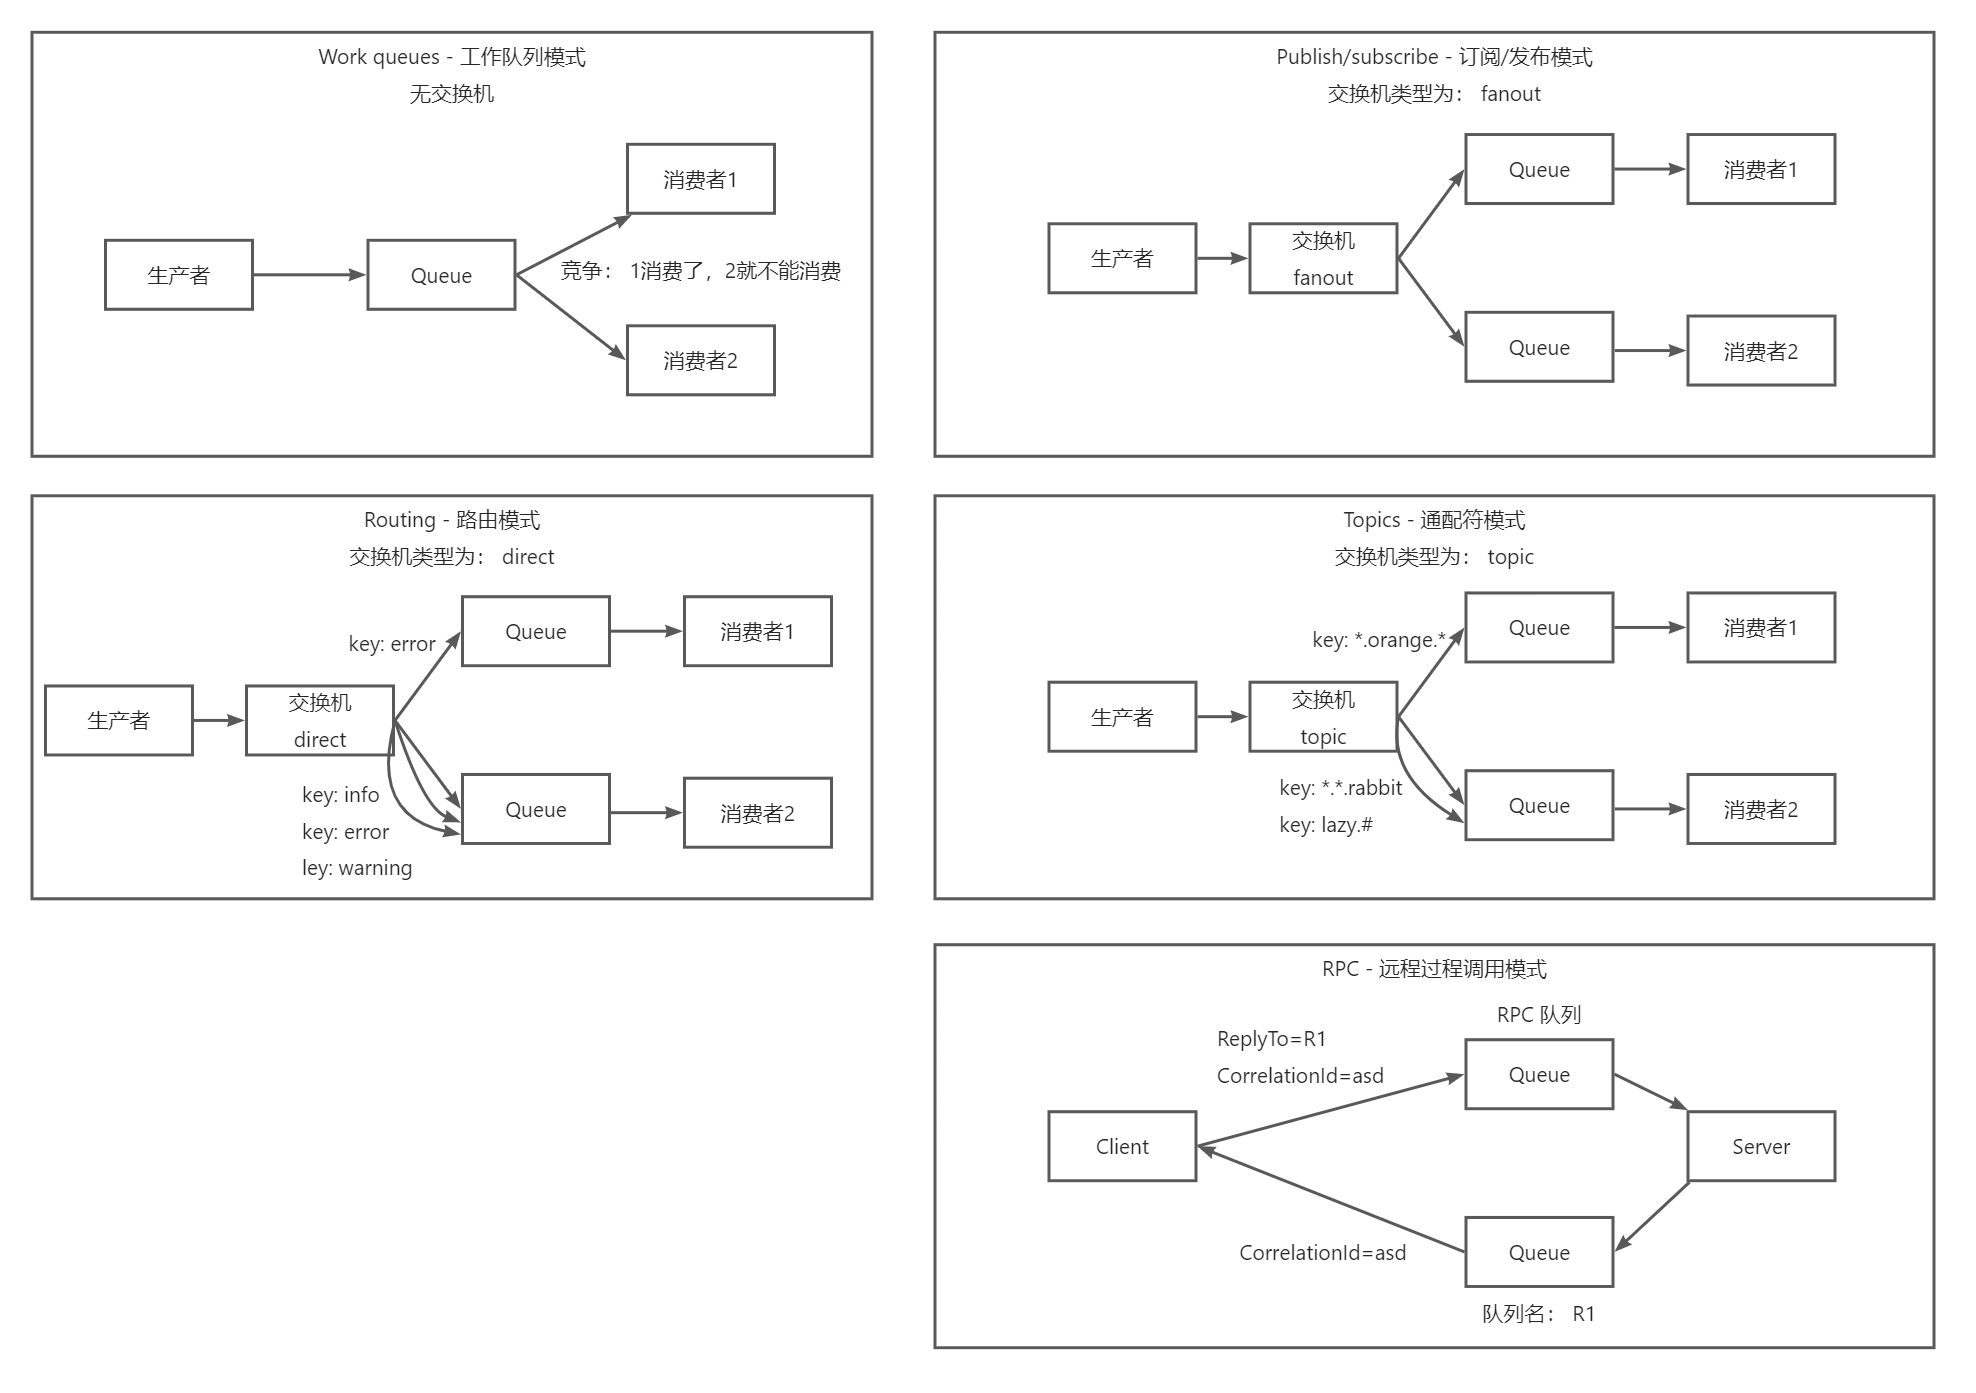
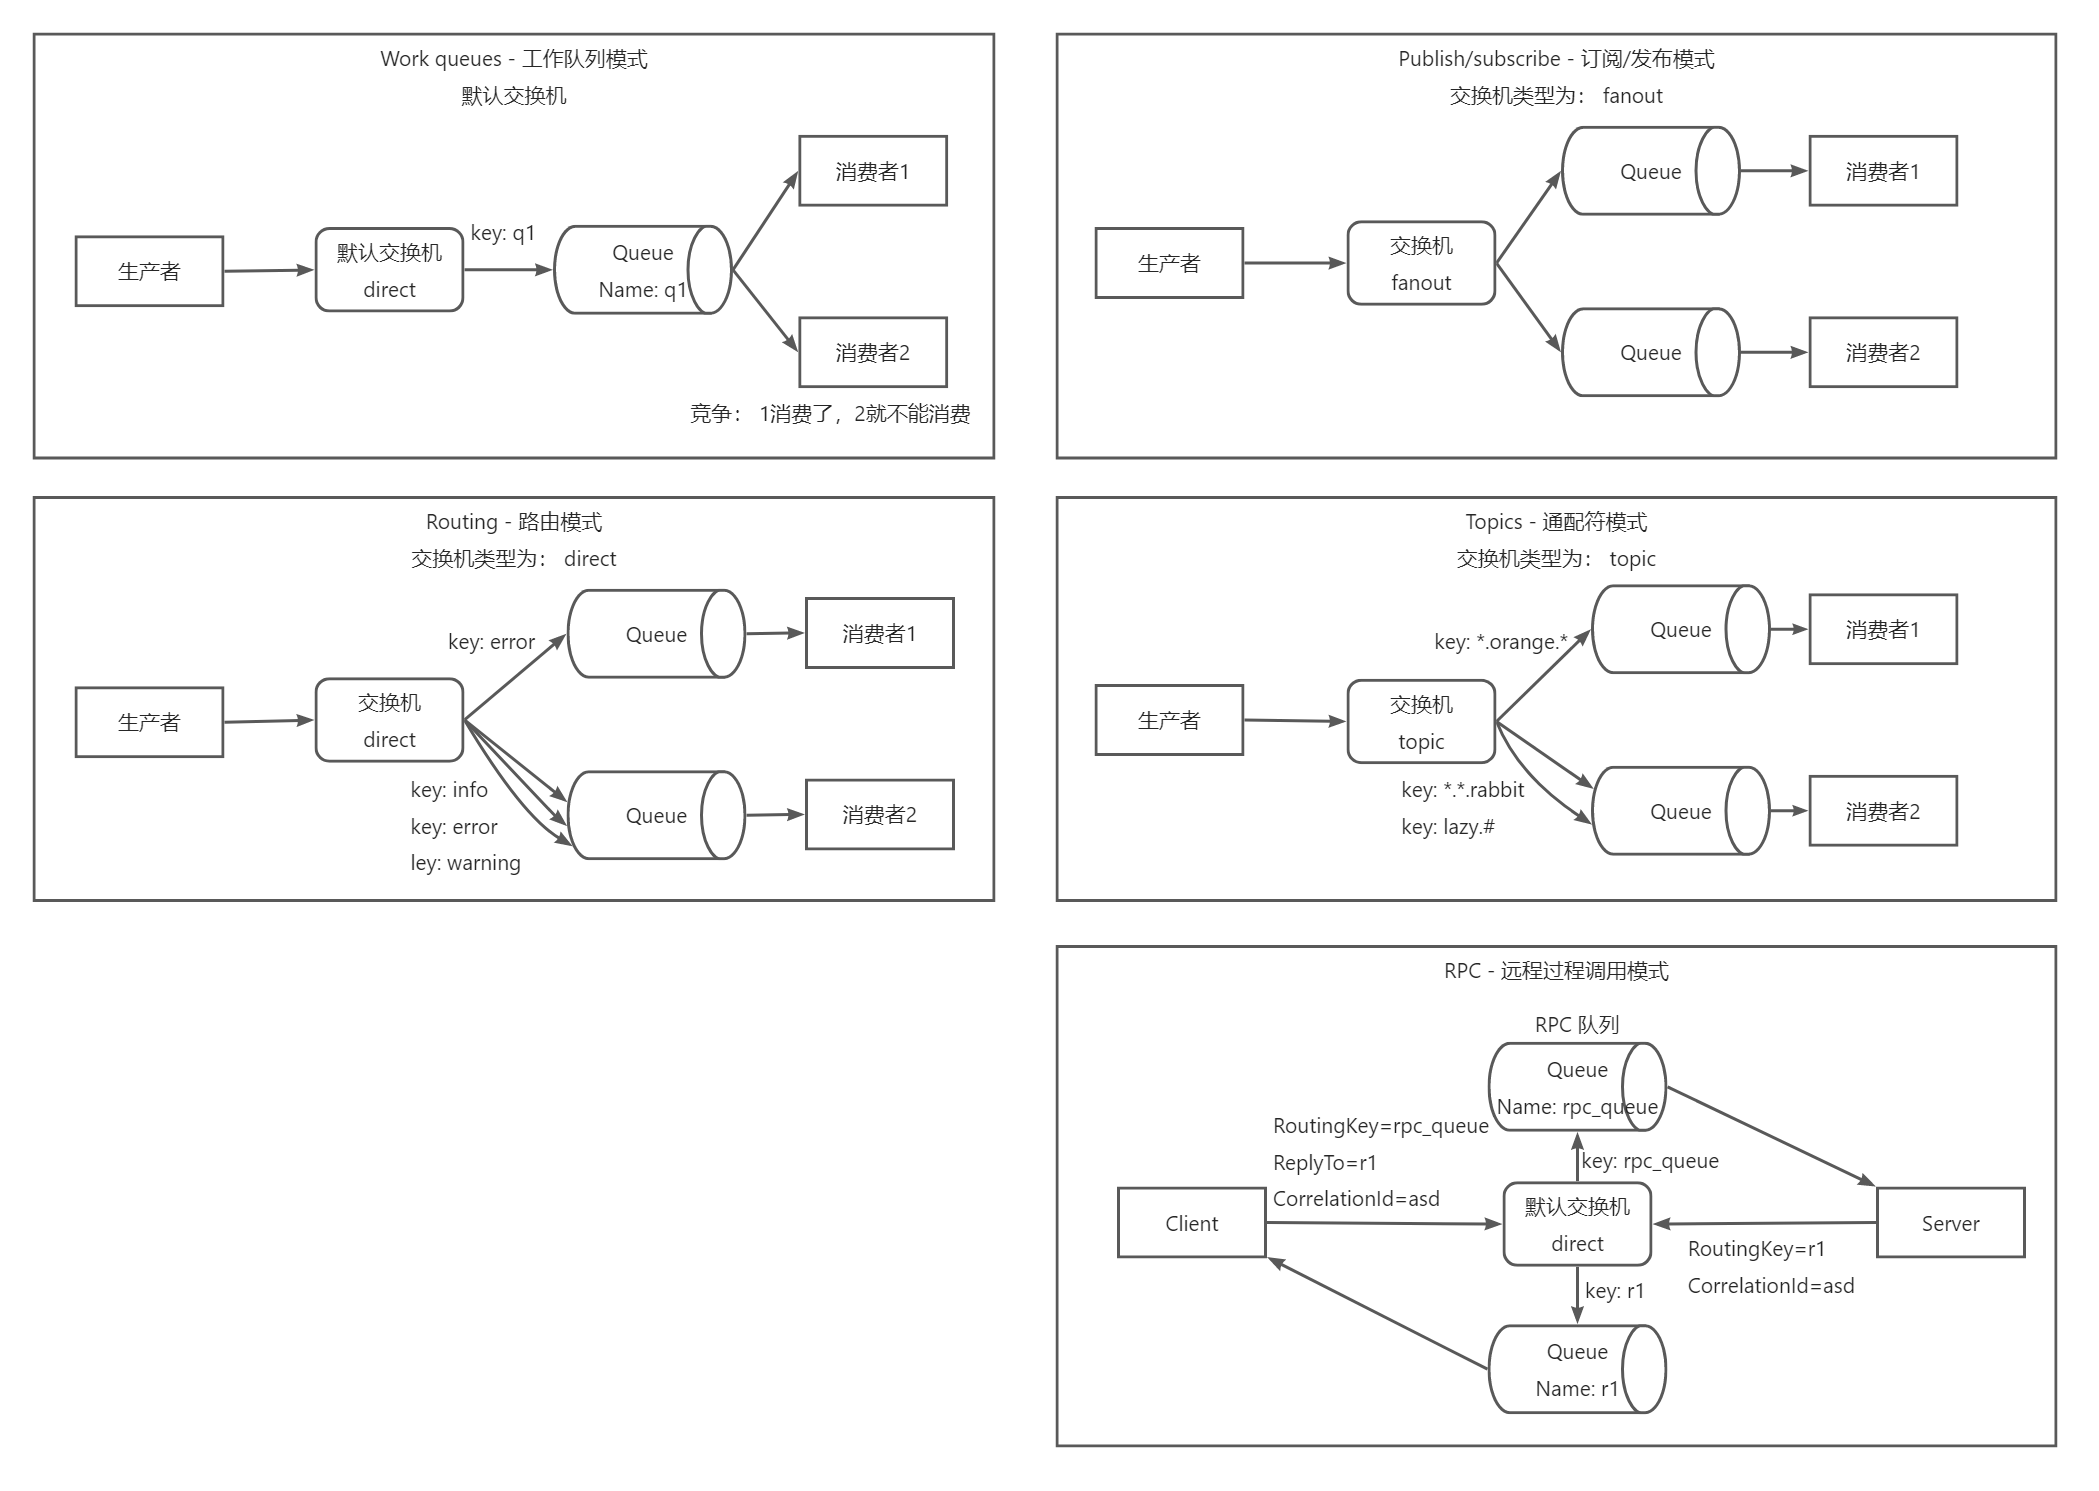
更新MD

diff --git a/README.md b/README.md
@@ -9,7 +9,46 @@
 
 RabbitMQ 基本使用
 
-RabbitMQ 4 种模式
+RabbitMQ 5 种模式
 
 ![RabbitMQ模式](./md-images/RabbitMQ-Mode.png)
 
+## 消息丢失
+
+1. 生产者到 RabbitMQ 消息丢失
+2. RabbitMQ 中存储的消息丢失
+3. RabbitMQ 到消费者消息丢失
+
+### 生产者到 RabbitMQ 消息丢失
+
+1. 网络丢包、网络故障
+2. 代码层面、配置层面 考虑不足
+
+#### 网络丢包、网络故障
+
+这种情况 RabbitMQ 会给生产者发送 nack 消息，告知生产者消息发布失败
+
+#### 代码层面、配置层面 考虑不足
+
+生成者消息发送到交换机，但交换机没有绑定队列，消息丢失
+
+### RabbitMQ 中存储的消息丢失
+
+1. 未持久化
+2. 高可用/热备
+
+#### 未持久化
+
+交换机、队列、消息 都需要持久化
+
+#### 高可用/热备
+
+队列、磁盘 都挂了
+
+### RabbitMQ 到消费者消息丢失
+
+1. 消费者收到消息，未来得及处理，挂了
+
+#### 消费者收到消息，未来得及处理，挂了
+
+消费者刚收到消息，还没处理，但是消费者服务挂掉了
